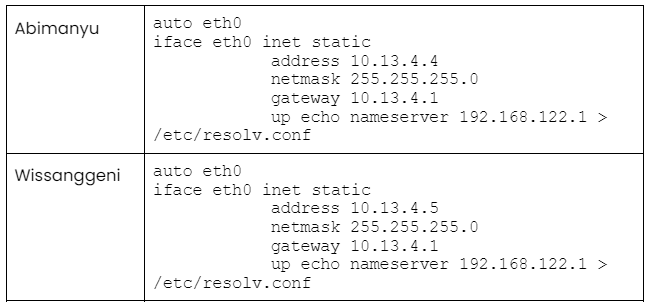
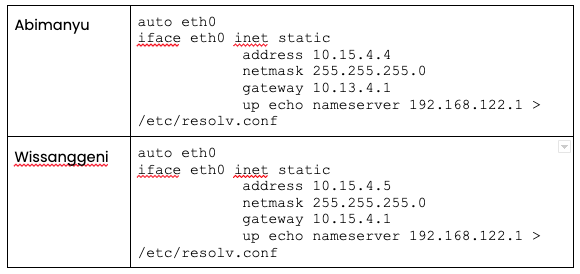
feat: add soal nomor 2,3,4,5,6,7,8

Changed region(s): [[0.0, 0.0, 0.9931, 0.9927]]

diff --git a/README.md b/README.md
@@ -73,6 +73,8 @@ Sesuai nama pada topologi menjadi seperti berikut :
 Kemudian Sesuaikan masing-masing IP pada node dengan prefix ip adalah `10.15.xxx.xxx`
 dengan cara setting configuration pada router dengan script sebagai berikut :
 
+<!-- Create Table -->
+
 ![img1](Image/1.4.png)
 
 Kemudian jika berhasil maka sebagai berikut
@@ -89,9 +91,10 @@ Kemudian setting node `Werkudara (eth2 -> eth0)`
 
 Kemudian kita setting bagian pada **eth3** dan kita bagi ip antara sadewa dan nakula menjadi berikut :
 
-**Sadewa** : `10.15.3.2`
-
-**Nakula** : `10.15.3.3`
+```
+Sadewa : 10.15.3.2
+Nakula : 10.15.3.3
+```
 
 Selanjutnya kita buat configuration jaringan nya menjadi berikut :
 
@@ -99,13 +102,12 @@ Selanjutnya kita buat configuration jaringan nya menjadi berikut :
 
 Kemudian kita setting bagian pada **eth4** dan kita bagi ip antara Arjuna-LB, Prabukusuma, Abimanyu, dan Wissanggeni menjadi berikut :
 
-**Arjuna-LB** : `10.15.4.2`
-
-**Prabukusuma** : `10.15.4.3`
-
-**Abimanyu** : `10.15.4.4`
-
-**Wissanggeni** : `10.15.4.5`
+```
+Arjuna-LB 	: 10.15.4.2
+Prabukusuma : 10.15.4.3
+Abimanyu 	: 10.15.4.4
+Wissanggeni : 10.15.4.5
+```
 
 Selanjutnya buat configuration jaringan nya menjadi berikut :
 
@@ -156,11 +158,11 @@ Buatlah website utama dengan akses ke **arjuna.yyy.com** dengan alias **www\.arj
 
 Untuk membuat DNS tersebut pertama-tama kita aktifkan dulu seluruh node dan kita langsung ke console dari node **Yudhistira** sebagai DNS Master pada jaringan ini.
 
-gambar 2.1
+![img1](Image/2.1.png)
 
 Setelah `/etc/bind` sudah terbuka di node Yudhistira, langkah selanjutnya membuat sebuah folder yaitu **arjuna.b13** dan kemudian membuat sebuah konfigurasi sebagai berikut :
 
-File : `/etc/bind/arjuna.b13`
+File : `/etc/bind/arjuna.b13.com`
 
 ```
 ;
@@ -168,11 +170,11 @@ File : `/etc/bind/arjuna.b13`
 ;
 $TTL	604800
 @   	IN  	SOA 	b13.com. root.b13.com. (
-                    	2023091001  	; Serial
-                     	604800     	; Refresh
-                      	86400     	; Retry
-                    	2419200     	; Expire
-                     	604800 )   	; Negative Cache TTL
+	2023091001  	; Serial
+	604800     		; Refresh
+	86400     		; Retry
+	2419200     	; Expire
+	604800 )   		; Negative Cache TTL
 ;
 @   	IN  	NS  	arjuna.b13.com.
 @   	IN  	A   	10.15.4.2   	; IP Arjuna
@@ -198,11 +200,11 @@ nameserver 10.15.1.2
 
 dan lakukan test pada DNS tersebut dengan cara ping **arjuna.b13.com** dan didapatkan hasil sebagai berikut :
 
-gambar 2.2
+![img1](Image/2.2.png)
 
-Untuk menambahkan alias www.arjuna.b13.com maka kita harus menambahkan alias pada `/etc/bind/arjuna.b13/arjuna.b13.com` sebagai berikut :
+Untuk menambahkan alias www.arjuna.b13.com maka kita harus menambahkan alias pada `/etc/bind/arjuna.b13/arjuna.b13` sebagai berikut :
 
-File : `/etc/bind/arjuna.b13/arjuna.b13.com`
+File : `/etc/bind/arjuna.b13/arjuna.b13`
 
 ```
 ;
@@ -210,11 +212,11 @@ File : `/etc/bind/arjuna.b13/arjuna.b13.com`
 ;
 $TTL	604800
 @   	IN  	SOA 	b13.com. root.b13.com. (
-                    	2023091001  	; Serial
-                     	604800     	; Refresh
-                      	86400     	; Retry
-                    	2419200     	; Expire
-                     	604800 )   	; Negative Cache TTL
+	2023091001  ; Serial
+	604800     	; Refresh
+	86400     	; Retry
+	2419200     ; Expire
+	604800 )   	; Negative Cache TTL
 ;
 @   	IN  	NS  	arjuna.b13.com.
 @   	IN  	A   	10.15.4.2   	; IP Arjuna
@@ -226,7 +228,7 @@ www   IN   CNAME arjuna.b13.com.
 
 Sehingga apabila kita ping yang kedua kalinya akan menampilkan hasil sebagai berikut :
 
-gambar 2.3
+![img1](Image/2.3.png)
 
 Yang artinya konfigurasi DNS kita sudah berhasil dan siap untuk digunakan.
 
@@ -279,7 +281,7 @@ zone "abimanyu.b13.com" {
 
 Apabila kita coba ping lagi maka akan menampilkan respond seperti berikut :
 
-gambar 3.1
+![img1](Image/3.1.png)
 
 # Soal No 4
 
@@ -297,11 +299,11 @@ Untuk membuat sebuah subdomain maka yang perlu kita butuhkan adalah menambahkan 
 ;
 $TTL	604800
 @   	IN  	SOA 	b13.com. root.b13.com. (
-                    	2023091001  	; Serial
-                     	604800     	; Refresh
-                      	86400     	; Retry
-                    	2419200     	; Expire
-                     	604800 )   	; Negative Cache TTL
+	2023091001  ; Serial
+	604800     	; Refresh
+	86400     	; Retry
+	2419200     ; Expire
+	604800 )   	; Negative Cache TTL
 ;
 @   	IN  	NS  	abimanyu.b13.com.
 @   	IN  	A   	10.15.4.4   	; IP Abimanyu
@@ -314,9 +316,9 @@ parikesit IN	A   	10.15.4.4   	; IP Abimanyu
 
 Yang apabilah kita test dengan melakukan ping ke parikesit.abimanyu.b13.com yang hasilnya sebagai berikut :
 
-Gambar 4.1
+![img1](Image/4.1.png)
 
-Bisa kita lihat ping diatas menghasilkan sebuah respond ip ..4.4 yaitu IP node Abimanyu, yang artinya sambungan tersebut sudah berhasil.
+Bisa kita lihat ping diatas menghasilkan sebuah respond ip 10.15.4.4 yaitu IP node Abimanyu, yang artinya sambungan tersebut sudah berhasil.
 
 # Soal No 5
 
@@ -326,24 +328,21 @@ Buat juga reverse domain untuk domain utama.
 
 ## Solusi
 
-Untuk membuat reverse domain tersebut kita bisa pergi ke file `/etc/bind/named.conf` dan menambahkan script sebagai berikut :
+Untuk membuat reverse domain tersebut kita bisa pergi ke file `/etc/bind/named.conf.local` dan menambahkan script sebagai berikut :
 
 ```
 zone "4.13.10.in-addr.arpa" {
-    	type master;
-    	file "/etc/bind/4.13.10.in-addr/4.13.10.in-addr.arpa";
+	type master;
+	file "/etc/bind/4.13.10.in-addr/4.13.10.in-addr.arpa";
 };
 ```
 
 Save dan kita buat sebuah file sebagai tempat penampungan reverse domain dengan nama folder `4.13.10.in-addr` tambahkan pada file sesuai dengan file diatas yaitu :
 
-gambar 5.1
+![img1](Image/5.1.png)
 
-Kemudian kita bisa restart dan check apakah konfigurasi diatas sudah benar dengan cara tulis command di bawah ini pada node **Sadewa**:
-
-gambar 5.2
-
-gambar 5.3
+Kemudian kita bisa restart dan check apakah konfigurasi diatas sudah benar dengan cara tulis command di bawah ini pada node **Sadewa**
+![img1](Image/5.2.png)
 
 ## Hasil
 
@@ -375,9 +374,9 @@ zone "abimanyu.b13.com" {
     	file "/etc/bind/abimanyu.b13/abimanyu.b13.com";
 };
 
-zone "4.13.10.in-addr.arpa" {
+zone "4.15.10.in-addr.arpa" {
     	type master;
-    	file "/etc/bind/4.13.10.in-addr/4.13.10.in-addr.arpa";
+    	file "/etc/bind/4.15.10.in-addr/4.15.10.in-addr.arpa";
 };
 ```
 
@@ -410,7 +409,7 @@ nameserver 10.15.1.2
 
 Setelah itu matikan bind dari server Yudhistira dan lakukan percobaan pada node Sadewa dengan cara ping arjuna.b13.com dan menampilkan hasil sebagai berikut:
 
-Gambar 6.1
+![img1](Image/6.1.png)
 
 Dari hasil diatas kita bisa simpulkan bahwa dns slave sudah bekerja dengan baik.
 
@@ -430,11 +429,11 @@ Untuk membuat subdomain tersebut kita bisa pergi ke server Yudhistira dan pergi 
 ;
 $TTL     604800
 @   	IN  	SOA 	b13.com. root.b13.com. (
-                    	2023091001  	; Serial
-                     	604800     	; Refresh
-                      86400     	      ; Retry
-                    	2419200     	; Expire
-                     	604800 )   	; Negative Cache TTL
+	2023091001  	; Serial
+	604800     		; Refresh
+	86400     	    ; Retry
+	2419200     	; Expire
+	604800 )   		; Negative Cache TTL
 ;
 @           	IN  	NS  	abimanyu.b13.com.
 @           	IN  	A   	10.15.4.4   	; IP Abimanyu
@@ -481,11 +480,11 @@ Setelah itu kita bisa bikin sebuah folder pada **/etc/bind/** dengan nama folder
 ;
 $TTL	604800
 @   	IN  	SOA 	abimanyu.b13.com. root.abimanyu.b13.com. (
-                    	2023101001  	; Serial
-                     	604800     	; Refresh
-                      	86400     	; Retry
-                    	2419200     	; Expire
-                     	604800 )   	; Negative Cache TTL
+	2023101001  	; Serial
+	604800     		; Refresh
+	86400     		; Retry
+	2419200     	; Expire
+	604800 )   		; Negative Cache TTL
 ;
 @   	IN  	NS  	baratayuda.abimanyu.b13.com.
 @   	IN  	A   	10.15.4.4   	; IP Abimanyu
@@ -494,7 +493,7 @@ www 	IN  	CNAME   baratayuda.abimanyu.b13.com.
 
 Setelah itu kita bisa lakukan uji coba dengan melakukan ping pada domain tersebut dari Node Sadewa dan mendapatkan hasil sebagai berikut :
 
-gambar 7.1
+![img1](Image/7.1.png)
 
 Dan selesai dari kedua ping diatas mendapatkan respond dan tidak ada yang gagal artinya soal ini berhasil terjawab.
 
@@ -506,15 +505,15 @@ Untuk informasi yang lebih spesifik mengenai Ranjapan Baratayuda, buatlah subdom
 
 ## Solusi
 
-Untuk menambahkan subdomain itu kita hanya tinggal merubah /etc/bind/delegasi/baratayuda.abimanyu.b13.com dan menabhakan subdomainya beserta cnamnya sehingga kurang lebih syntax yang baru akan berbentuk seperti berikut ini :
+Untuk menambahkan subdomain itu kita hanya tinggal merubah `/etc/bind/delegasi/baratayuda.abimanyu.b13.com` dan menabhakan subdomainya beserta cnamnya sehingga kurang lebih syntax yang baru akan berbentuk seperti berikut ini :
 
 ```
 @   	IN  	SOA 	abimanyu.b13.com. root.abimanyu.b13.com. (
-                    	2023101001  	; Serial
-                     	604800     	; Refresh
-                      	86400     	; Retry
-                    	2419200     	; Expire
-                     	604800 )   	; Negative Cache TTL
+	2023101001  	; Serial
+	604800     	; Refresh
+	86400     	; Retry
+	2419200     	; Expire
+	604800 )   	; Negative Cache TTL
 ;
 @   	IN  	NS  	baratayuda.abimanyu.b13.com.
 @   	IN  	A   	10.15.4.4   	; IP Abimanyu
@@ -525,7 +524,7 @@ www.rjp IN  	CNAME   rjp.baratayuda.abimanyu.b13.com.
 
 dan kita lakukan testing dengan cara ping rjp.baratayuda.abimanyu.b13.com dan juga www.rjp sehingga mendapatkan hasil sebagai berikut :
 
-Gambar 8.1
+![img1](Image/8.1.png)
 
 # Soal 9
 
